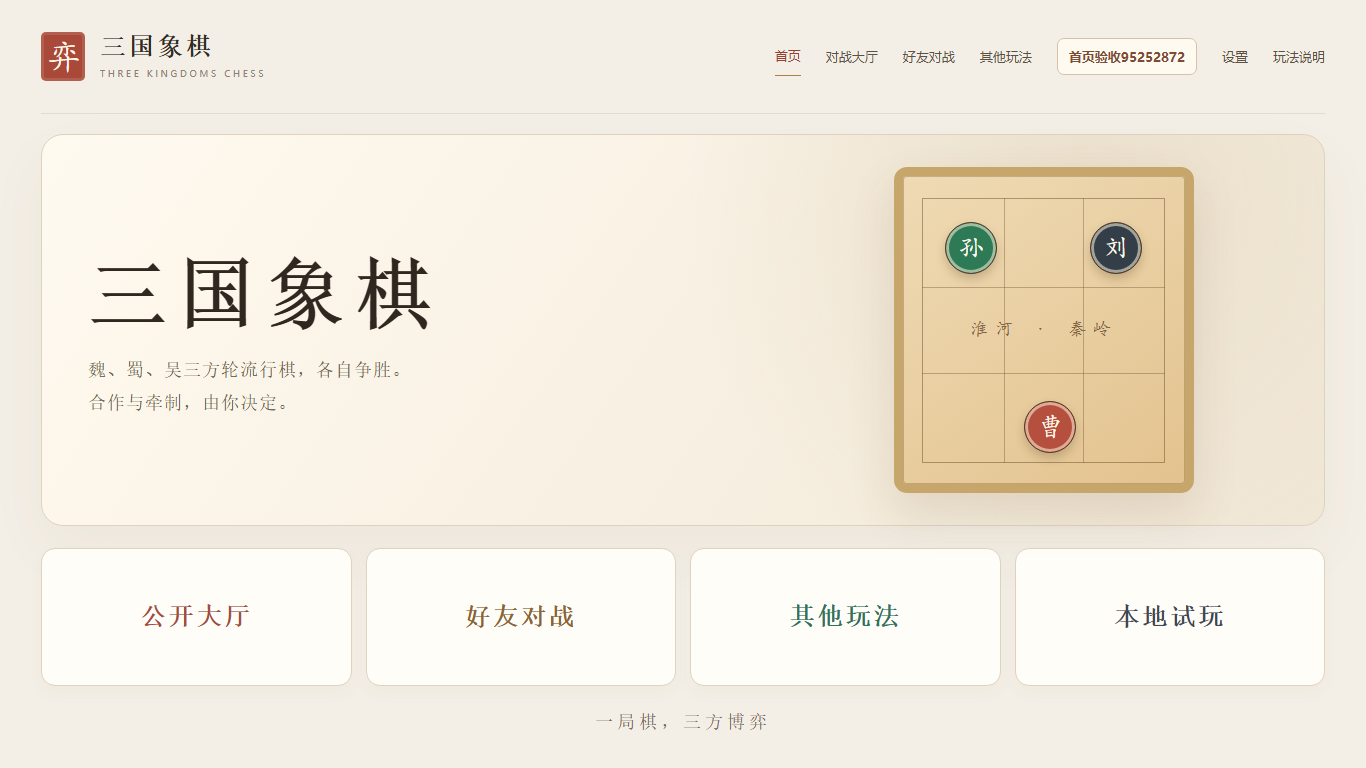
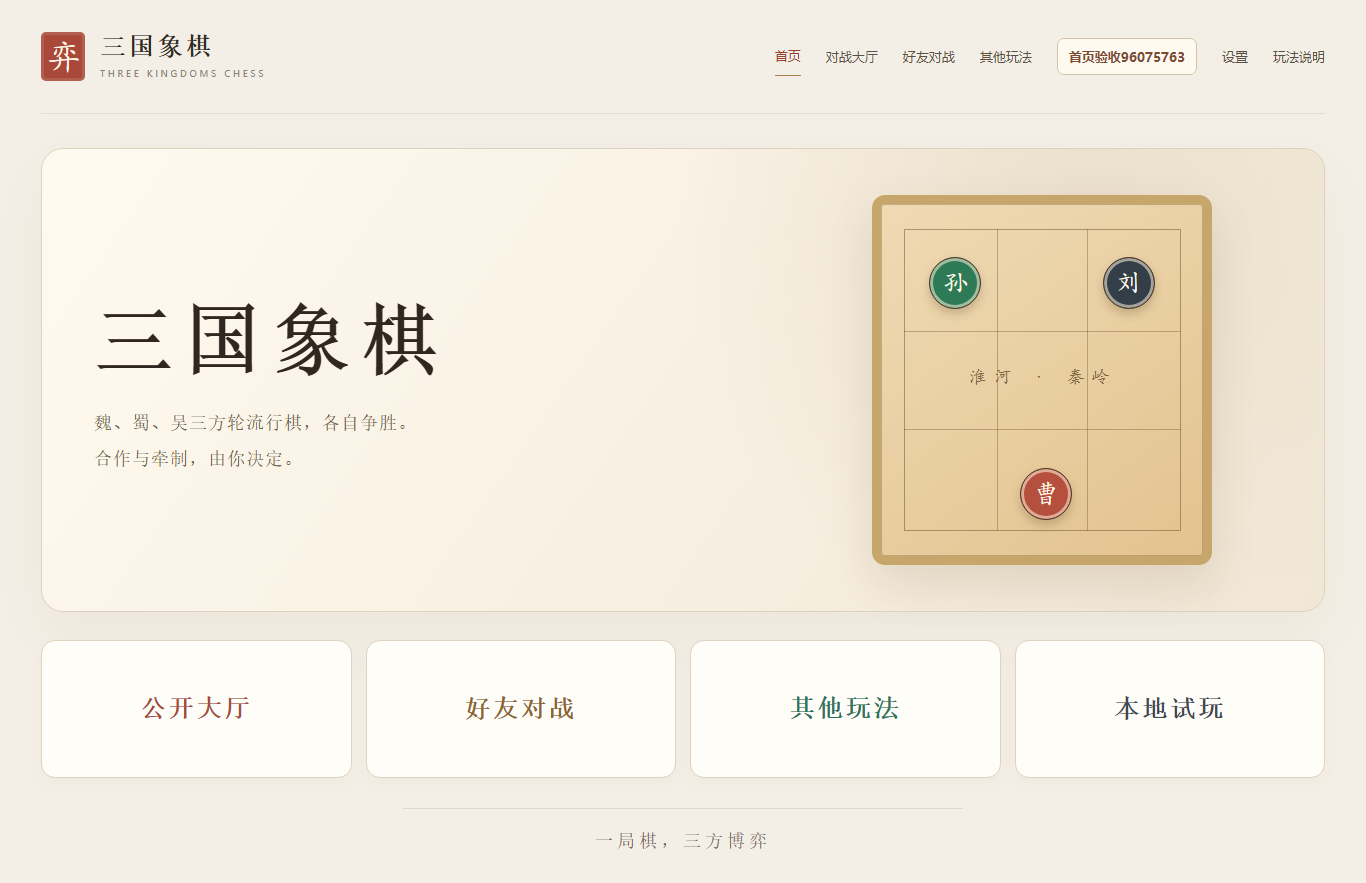
style: restore home vertical proportions

diff --git a/src/components/HomePage.vue b/src/components/HomePage.vue
@@ -61,13 +61,13 @@ const resumeLabel = computed(() => props.roomPhase === 'lobby' ? '返回房间' 
 </template>
 
 <style scoped>
-.home-page{padding:20px 0 28px}
-.home-hero{min-height:352px;padding:32px 46px;gap:34px}
-.home-hero h1{margin:10px 0 15px}
-.home-lead{line-height:1.85}
-.home-hero-board{width:min(100%,300px)}
-.home-return-room{margin-top:18px}
-.home-actions{grid-template-columns:repeat(4,minmax(0,1fr));gap:14px;margin-top:22px}
+.home-page{padding:34px 0 28px}
+.home-hero{min-height:430px;padding:46px 52px;gap:44px}
+.home-hero h1{margin:13px 0 20px}
+.home-lead{line-height:2}
+.home-hero-board{width:min(100%,340px)}
+.home-return-room{margin-top:24px}
+.home-actions{grid-template-columns:repeat(4,minmax(0,1fr));gap:14px;margin-top:28px}
 .home-action-card{
   --home-accent:#a64b3c;
   display:grid;
@@ -104,7 +104,10 @@ const resumeLabel = computed(() => props.roomPhase === 'lobby' ? '返回房间' 
 .home-action-card:active{box-shadow:0 4px 12px #5943230d;transform:translateY(0)}
 .home-action-card:focus-visible{outline:2px solid color-mix(in srgb,var(--home-accent) 62%,#8b7655);outline-offset:2px}
 .home-tagline{
-  margin:22px 0 0;
+  width:min(560px,100%);
+  margin:30px auto 0;
+  padding-top:18px;
+  border-top:1px solid #e2d7c8;
   color:#766957;
   font:18px/1.6 "Songti SC","SimSun",serif;
   letter-spacing:4px;
@@ -112,23 +115,23 @@ const resumeLabel = computed(() => props.roomPhase === 'lobby' ? '返回房间' 
 }
 
 @media(max-width:900px){
-  .home-page{padding-top:16px}
-  .home-hero{padding:28px 30px;gap:24px}
-  .home-hero-board{width:min(100%,250px)}
+  .home-page{padding:24px 0}
+  .home-hero{min-height:0;padding:40px 32px;gap:28px}
+  .home-hero-board{width:min(100%,280px)}
   .home-actions{grid-template-columns:repeat(2,minmax(0,1fr));gap:12px}
 }
 
 @media(max-width:720px){
-  .home-page{padding:10px 0 20px}
-  .home-hero{padding:18px 16px;gap:11px}
-  .home-hero h1{margin:5px 0 7px}
-  .home-lead{line-height:1.7}
-  .home-hero-board{width:170px}
-  .home-return-room{margin-top:10px;padding:9px 11px}
-  .home-actions{gap:9px;margin-top:14px}
-  .home-action-card{min-height:118px;padding:16px 10px;border-radius:11px}
+  .home-page{padding:16px 0 24px}
+  .home-hero{padding:24px 18px;gap:16px}
+  .home-hero h1{margin:10px 0 14px}
+  .home-lead{line-height:1.9}
+  .home-hero-board{width:210px}
+  .home-return-room{margin-top:12px;padding:10px 11px}
+  .home-actions{gap:9px;margin-top:20px}
+  .home-action-card{min-height:128px;padding:16px 10px;border-radius:11px}
   .home-action-card strong{font-size:21px;letter-spacing:1.5px}
-  .home-tagline{margin-top:14px;font-size:16px;letter-spacing:3px}
+  .home-tagline{width:calc(100% - 20px);margin-top:24px;padding-top:16px;font-size:16px;letter-spacing:3px}
 }
 
 @media(max-width:360px){

diff --git a/README.md b/README.md
@@ -19,7 +19,7 @@ npm run dev
 
 打开终端显示的 Vite 地址。`npm run dev` 会同时启动网页和本机联机服务；网页通过 `/three-chess/socket.io` 连接服务端。
 
-需要复验首页四入口、精简导航、登录昵称入口和桌面/手机布局时，可用测试模式启动服务后执行 `npm run accept:home`。脚本会生成 `docs/验收截图/2026-11-19-home-desktop.png` 与 `docs/验收截图/2026-11-19-home-mobile.png`。
+需要复验首页四入口、精简导航、登录昵称入口和桌面/手机布局时，可用测试模式启动服务后执行 `npm run accept:home`。脚本会生成普通桌面、高屏整页和手机截图：`2026-11-19-home-desktop.png`、`2026-11-19-home-tall.png` 与 `2026-11-19-home-mobile.png`。
 
 需要复验中国象棋单棋桌的桌面、手机和双人联机流程时，保持 `npm run dev` 运行，在另一个终端执行 `npm run accept:chinese`。脚本使用本机 Chrome 或 Edge 的独立临时配置启动三个真实浏览器会话，并把截图写入 `docs/验收截图/中国象棋-*.png`；不会使用或改动日常浏览器配置。
 
@@ -261,6 +261,7 @@ npm run build
 | 验收页面 | 桌面 | 手机 |
 | --- | --- | --- |
 | 游戏首页四入口 | [截图](docs/验收截图/2026-11-19-home-desktop.png) | [截图](docs/验收截图/2026-11-19-home-mobile.png) |
+| 首页高屏整页 | [截图](docs/验收截图/2026-11-19-home-tall.png) | — |
 | 好友对弈 | [截图](docs/验收截图/2026-11-02-friends-polish-desktop.png) | [截图](docs/验收截图/2026-11-02-friends-polish-mobile.png) |
 | 邀请加入 | [截图](docs/验收截图/2026-11-01-invite-join-desktop.png) | [截图](docs/验收截图/2026-11-01-invite-join-mobile.png) |
 | 复制邀请链接 | [截图](docs/验收截图/2026-11-01-invite-copy-dialog-desktop.png) | — |
@@ -291,7 +292,7 @@ npm run build
 | 马棋实时对局 | [截图](docs/验收截图/马棋-桌面-对局.png) | — |
 | 账号上传头像 | [截图](docs/验收截图/账号-上传头像.png) | — |
 
-2026-11-19 首页与导航优化（仅本地，未部署服务器）：首页四个主入口调整为“公开大厅 → 好友对战 → 其他玩法 → 本地试玩”，四张卡片同尺寸同权重，删除印章、图标、箭头、纹理和说明小字，只保留居中的朱红、深赭金、松石绿、墨青灰大标题。入口下方只保留“一局棋，三方博弈”，删除项目说明、长规则段落和首页页脚。顶部导航删除独立“观战”并将“好友组局”统一为“好友对战”，好友对战页内部观战入口及现有路由、服务端能力均保留。桌面四卡同排；390px 手机为两列两行，账号入口可见且无横向溢出。`npm test` 共 181 项通过，`npm run check` 与 `npm run build` 通过；真实 Chromium 检查 1366×768 与 390×844，四入口跳转、其他玩法、好友页观战、登录昵称入口和手机布局均通过，截图保存为 `docs/验收截图/2026-11-19-home-desktop.png` 与 `docs/验收截图/2026-11-19-home-mobile.png`。
+2026-11-19 首页与导航优化（仅本地，未部署服务器）：首页四个主入口调整为“公开大厅 → 好友对战 → 其他玩法 → 本地试玩”，四张卡片同尺寸同权重，删除印章、图标、箭头、纹理和说明小字，只保留居中的朱红、深赭金、松石绿、墨青灰大标题。入口下方只保留“一局棋，三方博弈”，并作为带淡分隔线的独立页尾收尾；删除项目说明、长规则段落和首页旧页脚。主视觉恢复改版前的桌面纵向比例，高屏允许自然留白但不设置固定页面高度，口号下方内容区留白约 28px。顶部导航删除独立“观战”并将“好友组局”统一为“好友对战”，好友对战页内部观战入口及现有路由、服务端能力均保留。桌面四卡同排；390px 手机为两列两行并自然滚动，账号入口可见且无横向溢出。`npm test` 共 181 项通过，`npm run check` 与 `npm run build` 通过；真实 Chromium 检查普通桌面 1366×768 整页、1366×1000 高屏和 390×844 手机，四入口跳转、其他玩法、好友页观战、登录昵称入口和手机布局均通过。
 
 2026-11-18 Android 头像 URL 修复（仅本地，未部署服务器）：定位到头像接口返回的 `/three-chess/api/avatar/...` 被 Android WebView 按本地来源解析成 `https://localhost/three-chess/api/avatar/...`，因此个人中心显示破图；认证、最近对局和头像二进制接口本身均正常。新增统一服务器资源 URL 转换，Android 将头像地址改写为 `https://47.95.251.153/three-chess/api/avatar/...`，网页继续使用原相对路径，游客本地头像不变。个人中心、三国席位、公开大厅及三种其他棋类头像全部复用该转换；头像版本参数继续提供上传后的缓存更新，重新登录也会从数据库恢复。集成测试实际验证头像接口 `200`、`Content-Type: image/png`、CORS 来源和 PNG 内容，并验证重新登录后的 `avatarUrl`。`npm run check`、181 项测试、`npm run build`、Capacitor 同步和 Gradle 调试 APK 构建均通过；当前没有连接 Android 真机，仍需安装新 APK 人工确认头像显示。
 
